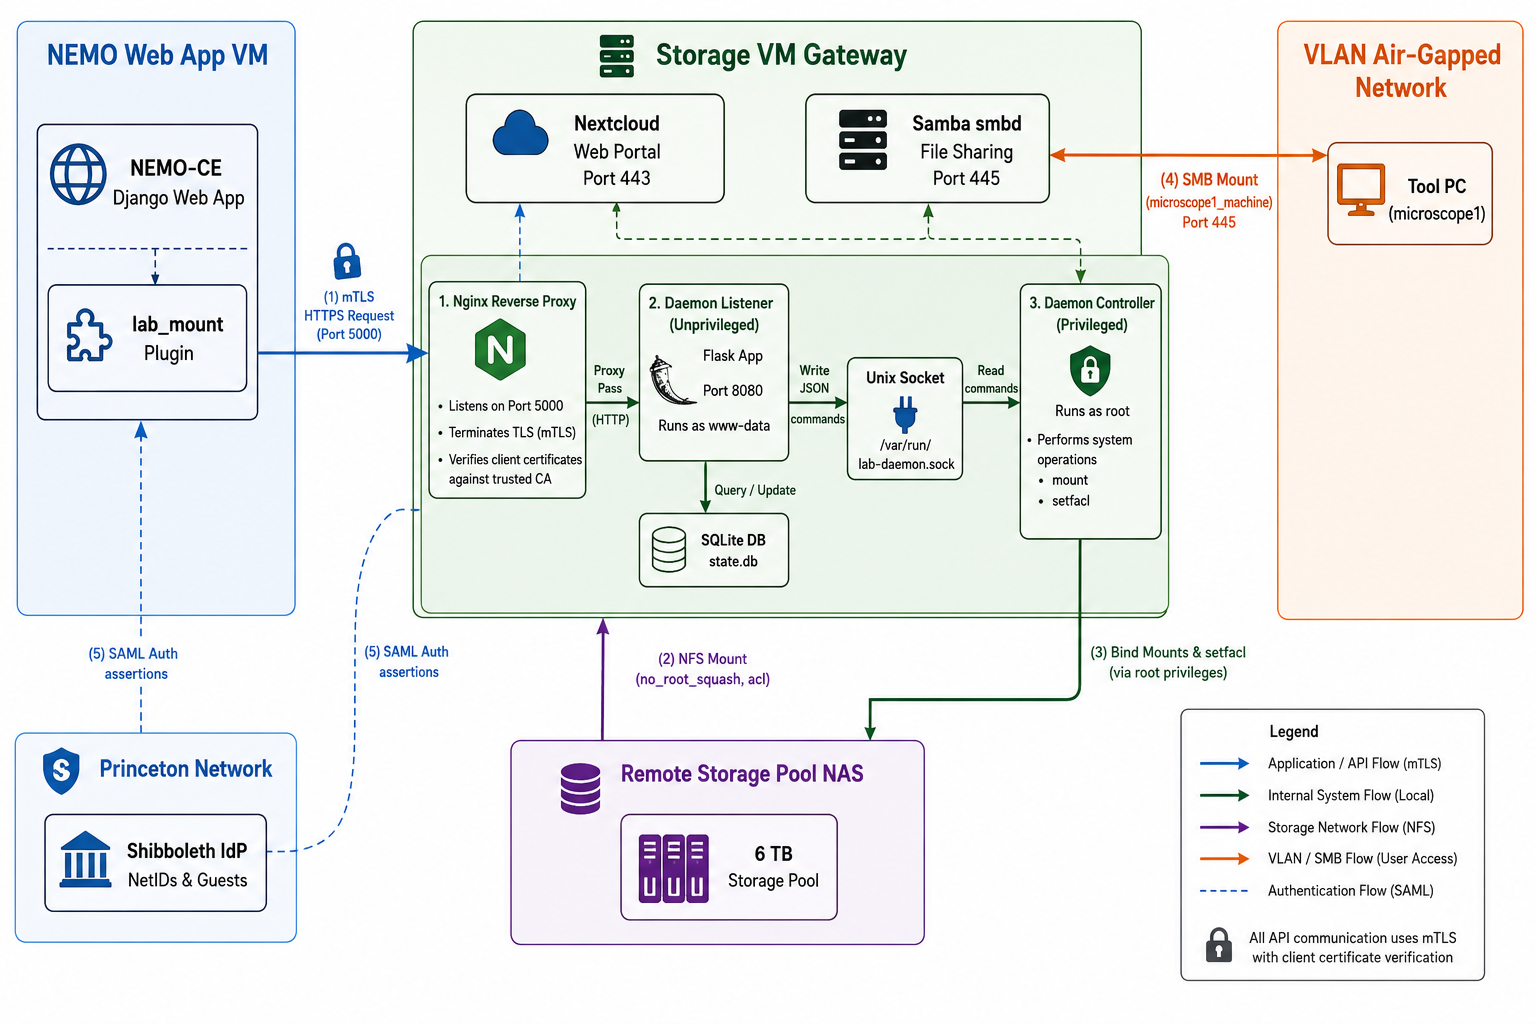
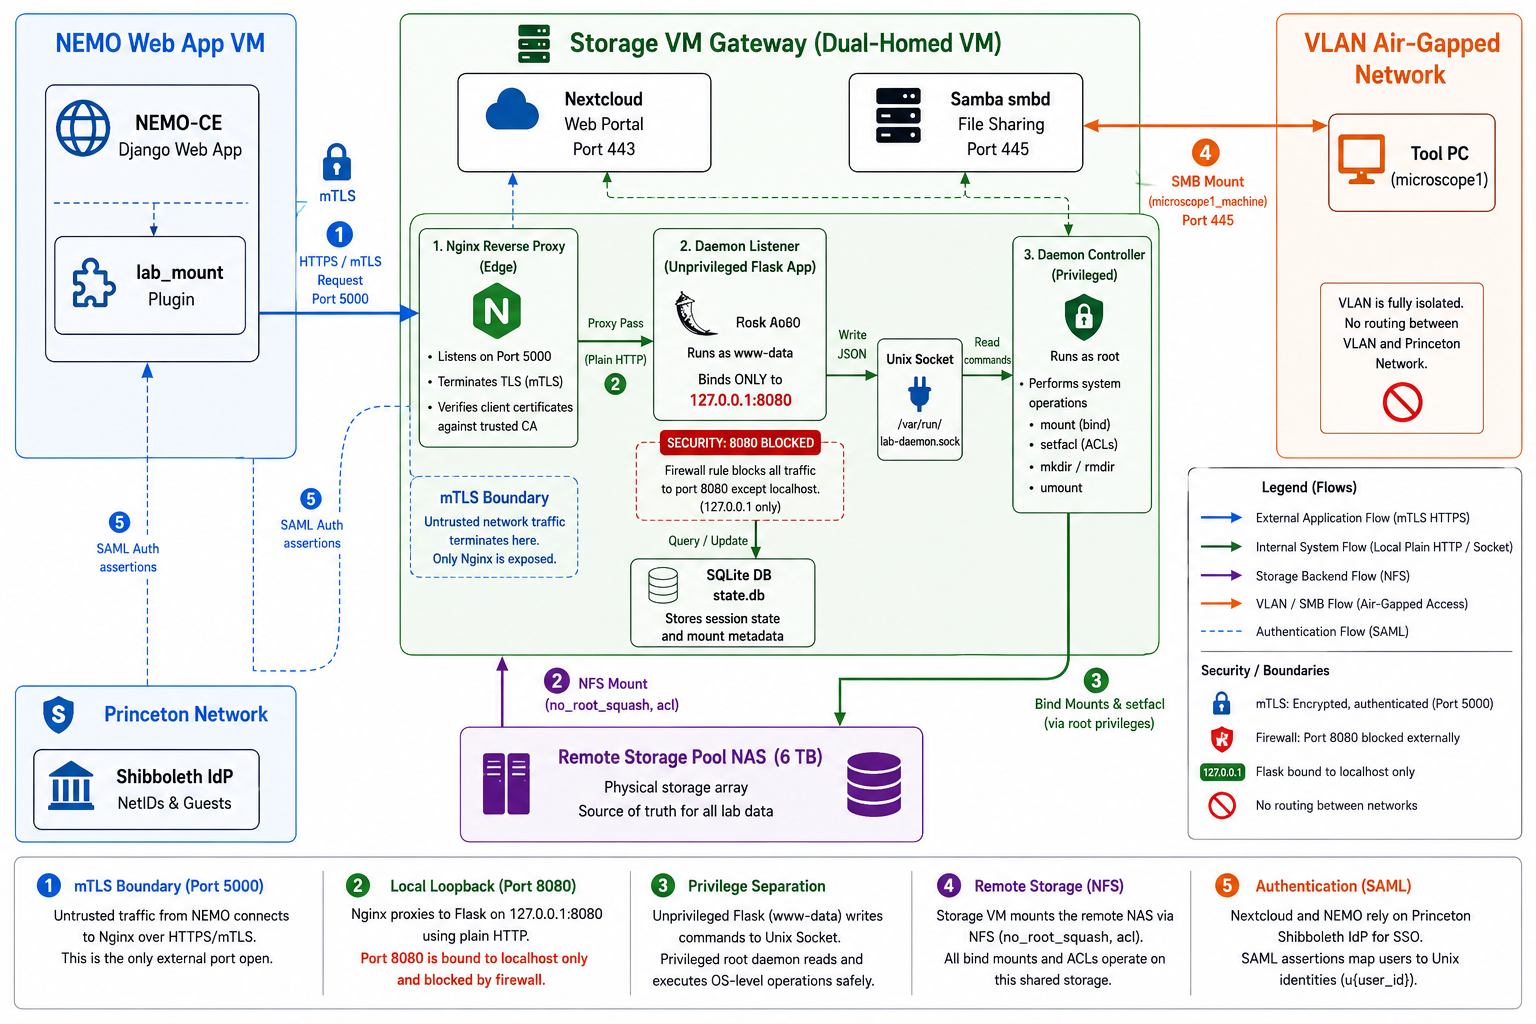
Refactor mount logic: support empty account folders in my_groups, isolate my_files to files/ subfolder, configure HTTP API sync, and resolve client verify issues

diff --git a/daemon_controller.py b/daemon_controller.py
@@ -53,7 +53,7 @@ DEFAULT_CONFIG = {
         "base_path": "/srv/labdata",
         "users_path": "/srv/labdata/users",
         "groups_path": "/srv/labdata/groups",
-        "sessions_path": "/tmp/labdata/sessions",
+        "sessions_path": "/srv/labdata/sessions",
         "public_path": "/srv/labdata/public",
         "group_folder_type": "project",
         "exclude_project_ids": [],
@@ -284,6 +284,7 @@ def handle_mount(payload):
 
     username = user_info["username"]
     source_user = USERS_DIR / f"u{user_id}"
+    source_files = source_user / "files"
     source_project = GROUPS_DIR / f"account_{account_id}" / f"project_{project_id}"
 
     account_info = state_db.get_account_by_id(account_id)
@@ -302,43 +303,30 @@ def handle_mount(payload):
 
     account_name = account_info["name"] if account_info else ""
     project_name = project_info["name"] if project_info else ""
-    account_folder = _safe_name(account_name) if account_name else f"account_{account_id}"
-    project_folder = _safe_name(project_name) if project_name else f"project_{project_id}"
 
     project_excluded = is_project_excluded(project_id, project_name, account_id, account_name)
 
-    group_folder_type = config["storage"].get("group_folder_type", "project")
-    target_user = SESSIONS_DIR / tool / "my_files"
-    target_public = SESSIONS_DIR / tool / "public"
+    tool_lower = tool.lower()
+    group_folder_type = config["storage"].get("group_folder_type", "account")
+    target_user = SESSIONS_DIR / tool_lower / "my_files"
+    target_groups = SESSIONS_DIR / tool_lower / "my_groups"
+    target_public = SESSIONS_DIR / tool_lower / "public"
 
-    if group_folder_type == "account":
-        target_project = SESSIONS_DIR / tool / "my_groups" / account_folder
-    elif group_folder_type == "project":
-        target_project = SESSIONS_DIR / tool / "my_groups" / project_folder
-    else:
-        target_project = SESSIONS_DIR / tool / "my_groups" / account_folder / project_folder
+    # Pre-create standard persistent root tool folders
+    target_user.mkdir(parents=True, exist_ok=True)
+    target_groups.mkdir(parents=True, exist_ok=True)
+    target_public.mkdir(parents=True, exist_ok=True)
 
-    # Create directories
-    try:
-        source_user.mkdir(parents=True, exist_ok=True)
-        target_user.mkdir(parents=True, exist_ok=True)
-        target_public.mkdir(parents=True, exist_ok=True)
-        if not project_excluded:
-            source_project.mkdir(parents=True, exist_ok=True)
-            target_project.parent.mkdir(parents=True, exist_ok=True)
-            target_project.mkdir(parents=True, exist_ok=True)
-    except OSError as exc:
-        return {"error": f"Failed to create mount directories: {exc}"}, 500
+    # Fetch ALL accounts/projects this user belongs to
+    user_projects = state_db.get_user_projects_with_accounts(user_id)
 
-    # ACL Permissions
+    # Provision machine account for ACL grants
     tool_machine = user_provisioner.provision_machine_account(tool)
-    acl_manager.grant_acl_access(tool_machine, str(source_user), "rwx")
-    if not project_excluded:
-        acc_dir = GROUPS_DIR / f"account_{account_id}"
-        acl_manager.grant_acl_access(tool_machine, str(acc_dir), "x")
-        acl_manager.grant_acl_access(tool_machine, str(source_project), "rwx")
-    if PUBLIC_DIR.exists() and PUBLIC_DIR.is_dir():
-        acl_manager.grant_acl_access(tool_machine, str(PUBLIC_DIR), "rx")
+
+    # Grant ACL on the user's personal files directory (not the full home)
+    source_user.mkdir(parents=True, exist_ok=True)
+    source_files.mkdir(parents=True, exist_ok=True)
+    acl_manager.grant_acl_access(tool_machine, str(source_files), "rwx")
 
     mount_points = []
     quota_warning = None
@@ -348,26 +336,71 @@ def handle_mount(payload):
     if quota_info.get("exceeded"):
         quota_warning = "Quota exceeded!"
 
-    # User Mount
+    # User (my_files) Mount — bind only the personal files subdir, not the full home
     user_already_mounted = _is_mountpoint(target_user)
     if not user_already_mounted:
         try:
-            _mount_bind(source_user, target_user)
+            _mount_bind(source_files, target_user)
         except OSError as exc:
             return {"error": f"User mount failed: {exc}"}, 500
-    mount_points.append(f"{source_user} → {target_user}")
+    mount_points.append(f"{source_files} → {target_user}")
 
-    # Project Mount
-    if not project_excluded:
-        project_already_mounted = _is_mountpoint(target_project)
-        if not project_already_mounted:
-            try:
-                _mount_bind(source_project, target_project)
-            except OSError as exc:
-                log.error(f"Project mount failed: {exc}")
-        mount_points.append(f"{source_project} → {target_project}")
+    # Create empty account navigation folders under my_groups (no bind mounts).
+    # Deduplication: track which account_ids have already been created.
+    mounted_account_ids = set()
+    for p in user_projects:
+        p_account_id = p["account_id"]
+        p_account_name = p["account_name"]
+        p_project_id = p["project_id"]
+        p_project_name = p["project_name"]
+
+        if is_project_excluded(p_project_id, p_project_name, p_account_id, p_account_name):
+            continue
+
+        acc_fold = _safe_name(p_account_name) if p_account_name else f"account_{p_account_id}"
+        proj_fold = _safe_name(p_project_name) if p_project_name else f"project_{p_project_id}"
+
+        source_acc_dir = GROUPS_DIR / f"account_{p_account_id}"
+        source_acc_dir.mkdir(parents=True, exist_ok=True)
+
+        if group_folder_type == "account":
+            if p_account_id not in mounted_account_ids:
+                target_acc = target_groups / acc_fold
+                target_acc.mkdir(parents=True, exist_ok=True)
+                mounted_account_ids.add(p_account_id)
+        elif group_folder_type == "project":
+            # Each project gets its own folder
+            target_proj = target_groups / proj_fold
+            target_proj.mkdir(parents=True, exist_ok=True)
+            source_proj_dir = source_acc_dir / f"project_{p_project_id}"
+            source_proj_dir.mkdir(parents=True, exist_ok=True)
+            acl_manager.grant_acl_access(tool_machine, str(source_acc_dir), "x")
+            acl_manager.grant_acl_access(tool_machine, str(source_proj_dir), "rwx")
+            if not _is_mountpoint(target_proj):
+                try:
+                    _mount_bind(source_proj_dir, target_proj)
+                    mount_points.append(f"{source_proj_dir} → {target_proj}")
+                except OSError as exc:
+                    log.error(f"Project mount failed for {proj_fold}: {exc}")
+        else:
+            # Hierarchical: account/project
+            target_acc = target_groups / acc_fold
+            target_proj = target_acc / proj_fold
+            target_proj.mkdir(parents=True, exist_ok=True)
+            source_proj_dir = source_acc_dir / f"project_{p_project_id}"
+            source_proj_dir.mkdir(parents=True, exist_ok=True)
+            acl_manager.grant_acl_access(tool_machine, str(source_acc_dir), "x")
+            acl_manager.grant_acl_access(tool_machine, str(source_proj_dir), "rwx")
+            if not _is_mountpoint(target_proj):
+                try:
+                    _mount_bind(source_proj_dir, target_proj)
+                    mount_points.append(f"{source_proj_dir} → {target_proj}")
+                except OSError as exc:
+                    log.error(f"Project mount failed for {acc_fold}/{proj_fold}: {exc}")
 
     # Public Mount
+    if PUBLIC_DIR.exists() and PUBLIC_DIR.is_dir():
+        acl_manager.grant_acl_access(tool_machine, str(PUBLIC_DIR), "rx")
     public_already_mounted = _is_mountpoint(target_public)
     if not public_already_mounted and PUBLIC_DIR.exists() and PUBLIC_DIR.is_dir():
         try:
@@ -381,7 +414,7 @@ def handle_mount(payload):
     resp = {
         "status": "already_mounted" if user_already_mounted else "mounted",
         "path": str(target_user),
-        "project_path": str(target_project) if not project_excluded else None,
+        "groups_path": str(target_groups),
         "session_id": session_id
     }
     if quota_warning:
@@ -406,7 +439,8 @@ def handle_unmount(payload):
                 session_id = s_id
                 break
 
-    tool_session_dir = SESSIONS_DIR / tool
+    tool_lower = tool.lower()
+    tool_session_dir = SESSIONS_DIR / tool_lower
     live_mounts = []
     try:
         with open("/proc/mounts", "r") as f:
@@ -423,6 +457,13 @@ def handle_unmount(payload):
     grace_seconds = config["session"]["unmount_grace_seconds"]
     unmount_success = True
 
+    persistent_dirs = {
+        tool_session_dir,
+        tool_session_dir / "my_files",
+        tool_session_dir / "my_groups",
+        tool_session_dir / "public"
+    }
+
     if live_mounts:
         for mp in live_mounts:
             target_path = Path(mp)
@@ -430,35 +471,44 @@ def handle_unmount(payload):
                 unmount_success = False
             time.sleep(0.3)
             try:
-                if target_path.exists() and not _is_mountpoint(target_path):
-                    target_path.rmdir()
+                # Do NOT remove standard persistent directories
+                abs_path = target_path.resolve()
+                if abs_path in [p.resolve() for p in persistent_dirs]:
+                    continue
+                if abs_path.exists() and not _is_mountpoint(abs_path):
+                    abs_path.rmdir()
             except OSError as e:
                 log.warning(f"Could not remove {target_path}: {e}")
 
-    # Remove empty dirs
-    def _rmdir_if_empty(path: Path):
-        try:
-            if path.exists() and not _is_mountpoint(path) and not list(path.iterdir()):
-                path.rmdir()
-                log.info(f"Removed empty dir: {path}")
-        except OSError:
-            pass
+    # Remove empty dirs inside my_groups (leaving parent and standard folders intact)
+    my_groups_dir = tool_session_dir / "my_groups"
+    if my_groups_dir.exists():
+        import shutil
+        for item in my_groups_dir.iterdir():
+            if item.is_dir() and not _is_mountpoint(item):
+                try:
+                    shutil.rmtree(item)
+                except Exception as e:
+                    log.warning(f"Could not remove dynamic user project dir {item}: {e}")
 
-    if tool_session_dir.exists():
-        for dirpath, dirnames, filenames in os.walk(str(tool_session_dir), topdown=False):
-            _rmdir_if_empty(Path(dirpath))
-        _rmdir_if_empty(tool_session_dir)
-
-    # Revoke ACLs
-    tool_machine = f"{tool.lower()}_machine"
+    # Revoke ACLs for user dir, public, and ALL accounts the user belongs to
+    tool_machine = f"{tool_lower}_machine"
     source_user = USERS_DIR / f"u{user_id}"
-    source_project = GROUPS_DIR / f"account_{account_id}" / f"project_{project_id}"
-    acc_dir = GROUPS_DIR / f"account_{account_id}"
-
     acl_manager.revoke_acl_access(tool_machine, str(source_user))
-    acl_manager.revoke_acl_access(tool_machine, str(source_project))
-    acl_manager.revoke_acl_access(tool_machine, str(acc_dir))
     acl_manager.revoke_acl_access(tool_machine, str(PUBLIC_DIR))
+
+    # Revoke for every account/project the user is a member of
+    user_projects = state_db.get_user_projects_with_accounts(user_id)
+    revoked_account_ids = set()
+    for p in user_projects:
+        p_account_id = p["account_id"]
+        p_project_id = p["project_id"]
+        acc_dir = GROUPS_DIR / f"account_{p_account_id}"
+        proj_dir = acc_dir / f"project_{p_project_id}"
+        if p_account_id not in revoked_account_ids:
+            acl_manager.revoke_acl_access(tool_machine, str(acc_dir))
+            revoked_account_ids.add(p_account_id)
+        acl_manager.revoke_acl_access(tool_machine, str(proj_dir))
 
     if session_id:
         state_db.remove_session(session_id)
@@ -467,6 +517,7 @@ def handle_unmount(payload):
         return {"status": "unmounted"}, 200
     else:
         return {"error": "Failed to unmount cleanly"}, 500
+
 
 def handle_init_user(payload):
     user_id = payload.get("user_id")

diff --git a/modules/state_db.py b/modules/state_db.py
@@ -293,6 +293,25 @@ class StateDB:
         finally:
             conn.close()
 
+    def get_user_projects_with_accounts(self, user_id: int) -> list:
+        conn = self._get_connection()
+        try:
+            cursor = conn.cursor()
+            cursor.execute("""
+                SELECT p.id as project_id, p.name as project_name, a.id as account_id, a.name as account_name
+                FROM projects p
+                JOIN accounts a ON p.account_id = a.id
+                JOIN memberships m ON p.id = m.project_id
+                WHERE m.user_id = ? AND p.active = 1 AND a.active = 1
+            """, (user_id,))
+            return [dict(row) for row in cursor.fetchall()]
+        except Exception as e:
+            logger.error(f"Failed to query user projects with accounts for user {user_id}: {e}")
+            return []
+        finally:
+            conn.close()
+
+
     def get_project_by_id(self, project_id: int) -> dict:
         """Return project row (id, account_id, name, linux_group, path, active) or None."""
         conn = self._get_connection()

diff --git a/tests/test_controller.py b/tests/test_controller.py
@@ -155,8 +155,12 @@ class TestController(unittest.TestCase):
         res, code = controller.handle_mount(payload)
         self.assertEqual(code, 201)
 
-        # Verify bind mounts called only ONCE (for user directory only, skipped project directory)
-        self.assertEqual(mock_mount.call_count, 1)
+        # Verify bind mounts called twice: once for user directory, once for project 426 (C2QA), but skipped project 500 (Buddy)
+        self.assertEqual(mock_mount.call_count, 2)
+        # Verify that project_500 is not in any of the mount calls
+        for call in mock_mount.call_args_list:
+            args, _ = call
+            self.assertNotIn("project_500", str(args[0]))
 
     @patch('daemon_controller.acl_manager.revoke_acl_access')
     @patch('daemon_controller.graceful_unmount')

diff --git a/modules/samba_controller.py b/modules/samba_controller.py
@@ -38,7 +38,7 @@ class SambaController:
             return handles
 
         # We want to find files opened under the machine's session folder, e.g., /tmp/labdata/sessions/microscope1/
-        machine_session_path = f"{self.sessions_path}/{machine_id}"
+        machine_session_path = f"{self.sessions_path}/{machine_id.lower()}"
         
         # Try JSON parsing if Samba supports it (smbstatus -L -j is supported in newer Samba versions)
         # However, standard smbstatus -L is text. Let's parse text.

diff --git a/modules/nemo_sync.py b/modules/nemo_sync.py
@@ -187,7 +187,7 @@ class NemoSync:
                 self.user_provisioner.sync_user_groups(user_id, list(new_projects))
                 
                 # Sync memberships to permanent Nextcloud group symlinks
-                self._sync_user_my_groups_symlinks(user_id, list(new_projects))
+                # self._sync_user_my_groups_symlinks(user_id, list(new_projects))
 
     def _sync_user_my_groups_symlinks(self, user_id, project_ids):
         import os
